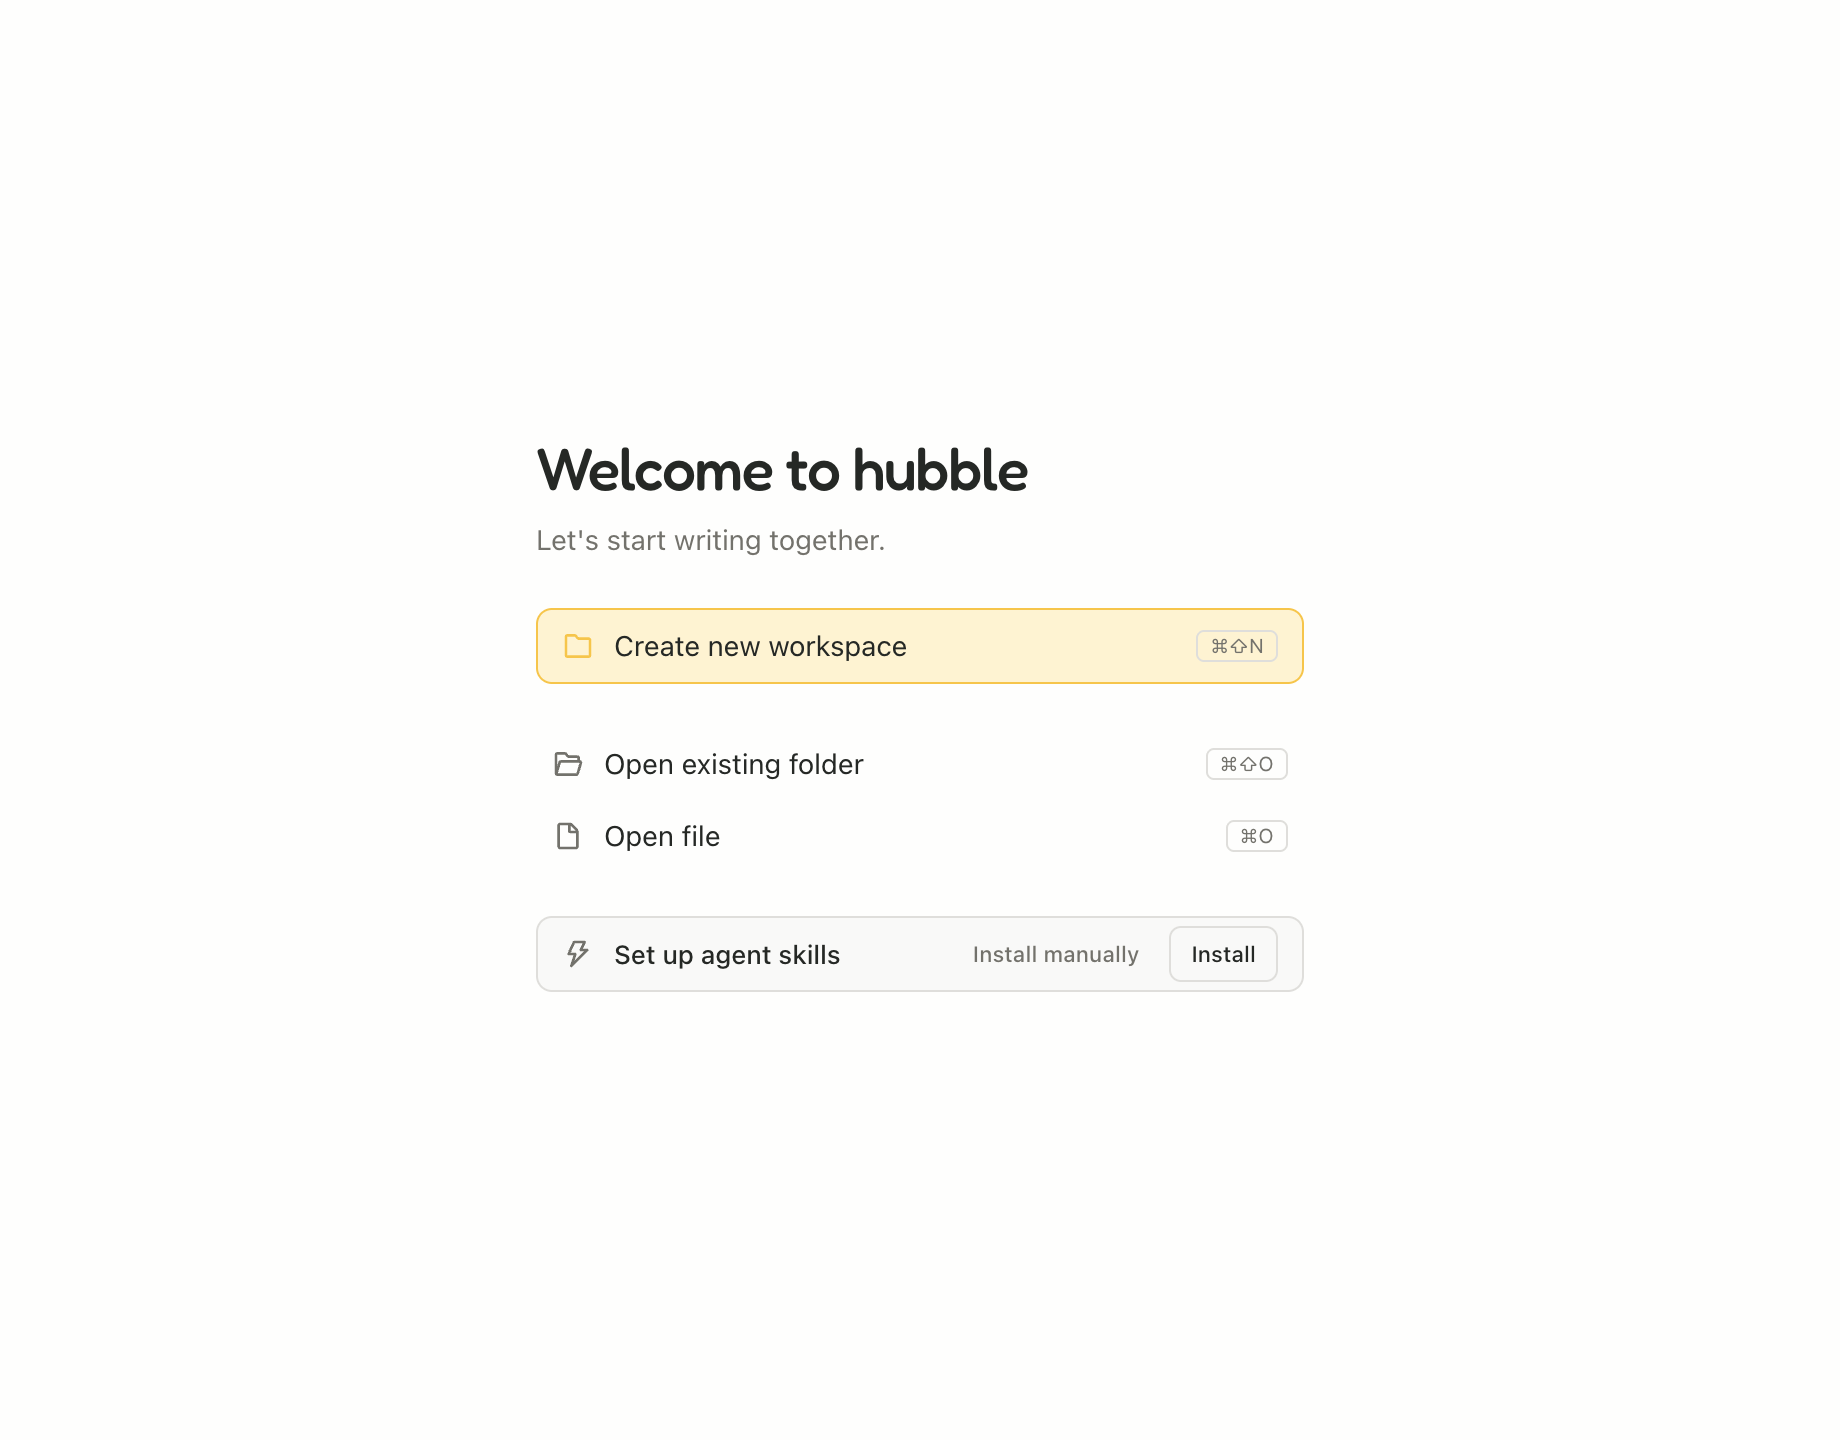
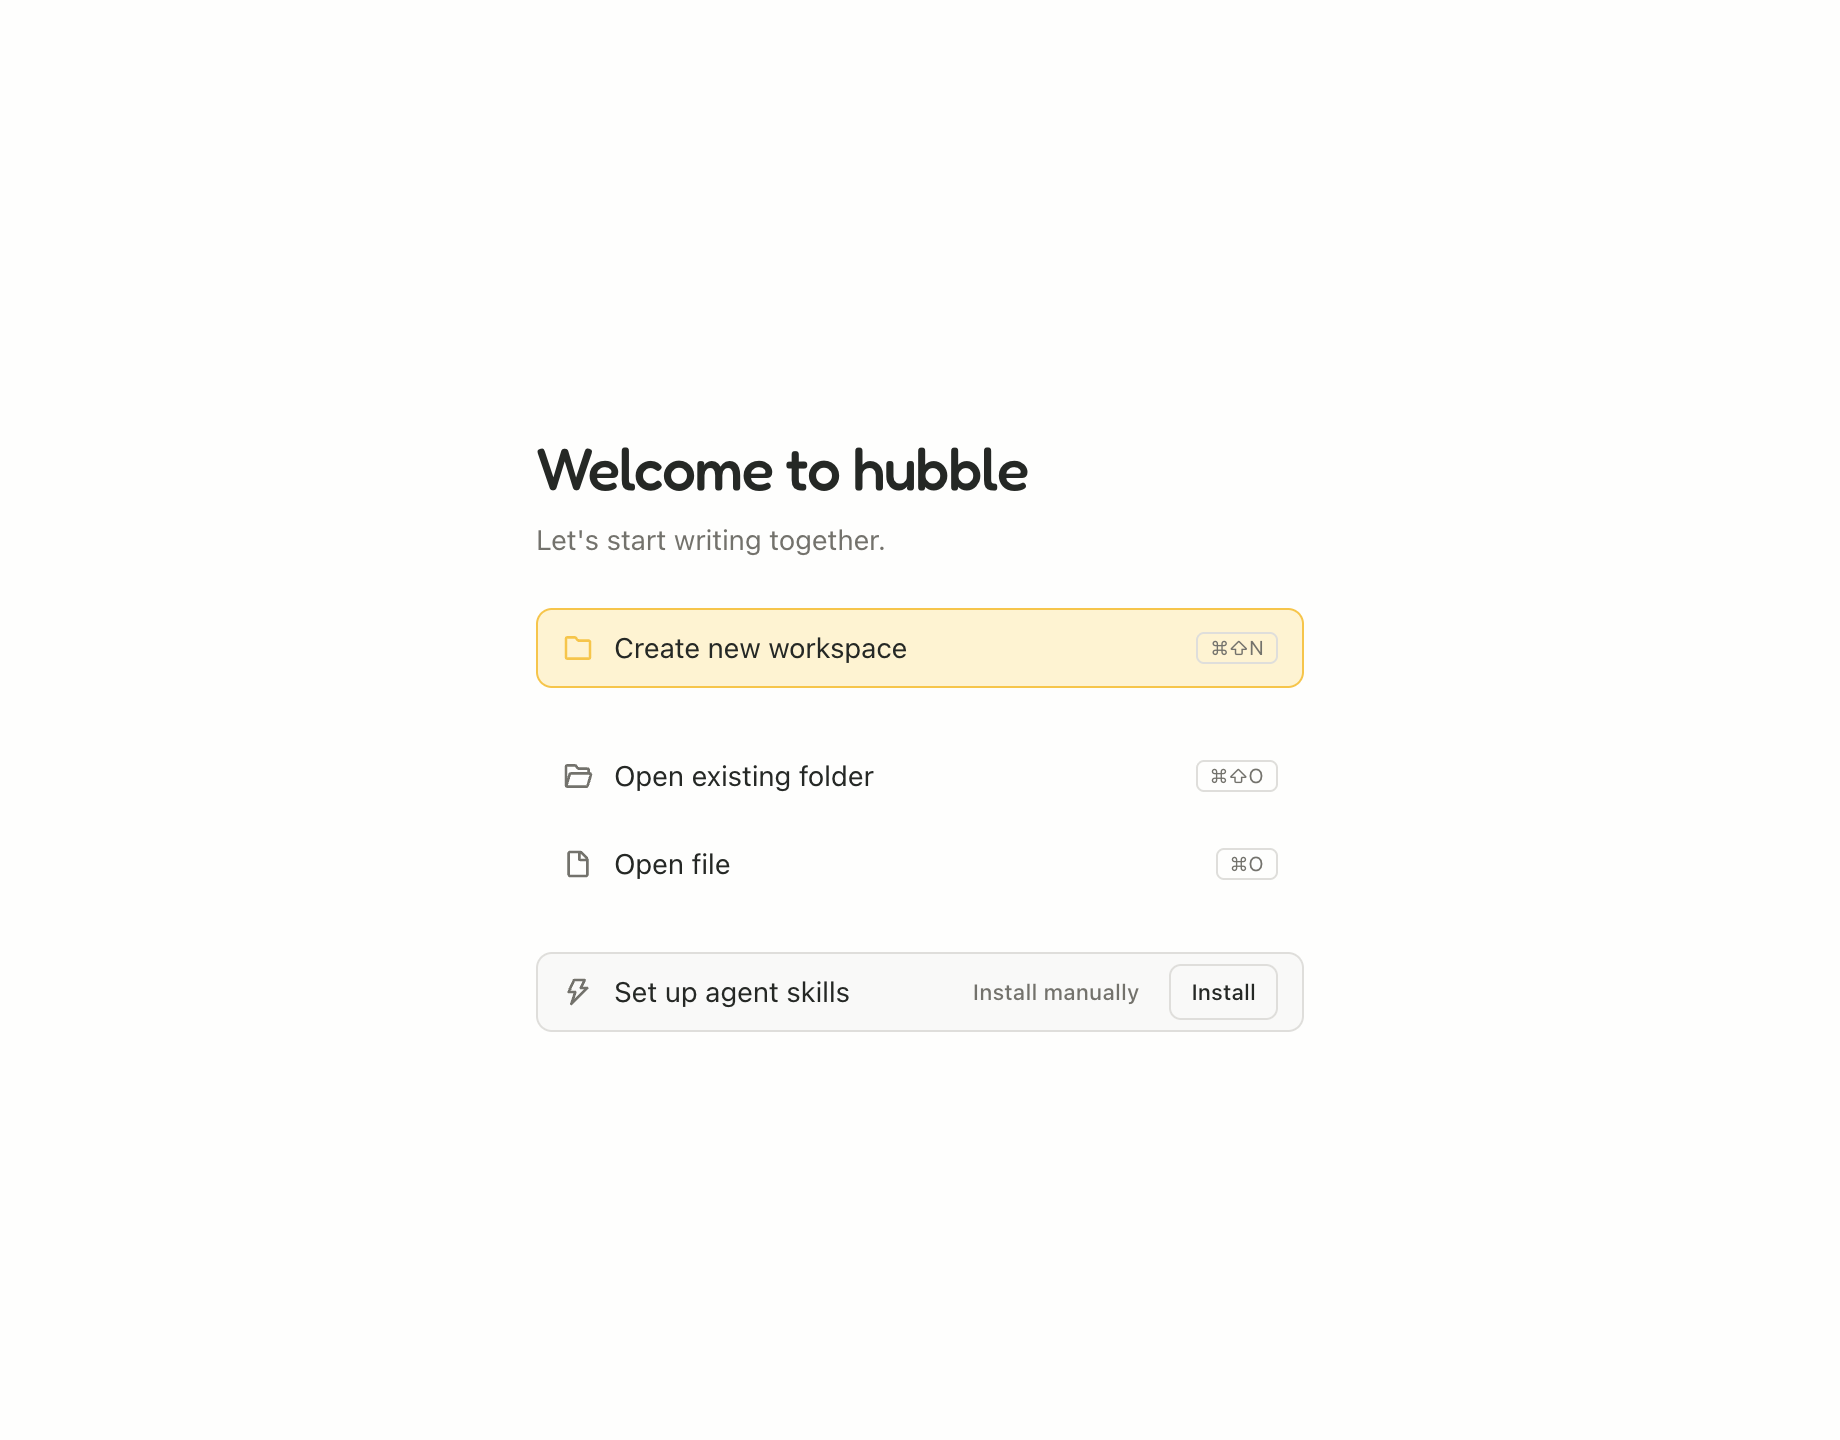
Align welcome rows and stabilize skills setup geometry

diff --git a/apps/desktop/src/components/WelcomeScreen.tsx b/apps/desktop/src/components/WelcomeScreen.tsx
@@ -36,7 +36,7 @@ export function WelcomeScreen({
 					type="button"
 					onClick={onCreateWorkspace}
 					style={{ animationDelay: "0.15s" }}
-					className="welcome-rise flex w-full items-center gap-2.5 rounded-md border border-brand-accent bg-accent px-3 py-2 text-start text-sm transition-colors hover:bg-brand-accent/10 focus-visible:outline-2 focus-visible:outline-offset-2 focus-visible:outline-brand-accent"
+					className="welcome-rise flex min-h-10 w-full items-center gap-2.5 rounded-md border border-brand-accent bg-accent px-3 py-2 text-start text-sm transition-colors hover:bg-brand-accent/10 focus-visible:outline-2 focus-visible:outline-offset-2 focus-visible:outline-brand-accent"
 				>
 					<MingcuteFolderLine className="size-4 text-brand-accent" />
 					Create new workspace
@@ -51,6 +51,7 @@ export function WelcomeScreen({
 					<div className="welcome-rise" style={{ animationDelay: "0.25s" }}>
 						<EmptyStateAction
 							icon={<MingcuteFolderOpenLine className="size-4" />}
+							className="min-h-10 border border-transparent px-3 py-2"
 							label="Open existing folder"
 							shortcut={folderShortcut}
 							onClick={onOpenFolder}
@@ -59,6 +60,7 @@ export function WelcomeScreen({
 					<div className="welcome-rise" style={{ animationDelay: "0.35s" }}>
 						<EmptyStateAction
 							icon={<MingcuteFileLine className="size-4" />}
+							className="min-h-10 border border-transparent px-3 py-2"
 							label="Open file"
 							shortcut={fileShortcut}
 							onClick={onOpenFile}
@@ -66,13 +68,15 @@ export function WelcomeScreen({
 					</div>
 				</section>
 				<div
-					className="welcome-rise flex items-center gap-2.5 rounded-md border border-border bg-muted/40 px-3 py-1"
+					className="welcome-rise flex min-h-10 items-center gap-2.5 rounded-md border border-border bg-muted/40 px-3 py-1"
 					style={{ animationDelay: "0.45s" }}
 				>
 					<MingcuteLightningLine className="size-4 shrink-0 text-muted-foreground" />
 					<div className="min-w-0 flex-1">
 						<SkillsSettings
-							title="Set up agent skills"
+							title={
+								<span className="text-sm font-normal">Set up agent skills</span>
+							}
 							description={null}
 							installVariant="outline"
 						/>

diff --git a/apps/desktop/src/components/EmptyStateAction.tsx b/apps/desktop/src/components/EmptyStateAction.tsx
@@ -1,4 +1,5 @@
 import type { ReactNode } from "react";
+import { cn } from "../lib/utils";
 
 export function EmptyStateAction({
 	icon,
@@ -6,6 +7,7 @@ export function EmptyStateAction({
 	detail,
 	trailing,
 	shortcut,
+	className,
 	onClick,
 }: {
 	icon: ReactNode;
@@ -13,6 +15,7 @@ export function EmptyStateAction({
 	detail?: string;
 	trailing?: string;
 	shortcut?: string | null;
+	className?: string;
 	onClick: () => void;
 }) {
 	return (
@@ -20,7 +23,10 @@ export function EmptyStateAction({
 			type="button"
 			data-new-tab-option
 			onClick={onClick}
-			className="flex w-full items-center gap-2.5 rounded-md px-2 py-1.5 text-start text-sm hover:bg-accent focus-visible:bg-accent focus-visible:outline-hidden"
+			className={cn(
+				"flex w-full items-center gap-2.5 rounded-md px-2 py-1.5 text-start text-sm hover:bg-accent focus-visible:bg-accent focus-visible:outline-hidden",
+				className,
+			)}
 		>
 			<span className="text-muted-foreground">{icon}</span>
 			<span className="truncate">{label}</span>

diff --git a/apps/desktop/src/components/SkillsSettings.tsx b/apps/desktop/src/components/SkillsSettings.tsx
@@ -12,7 +12,7 @@ export function SkillsSettings({
 	installVariant = "default",
 	description = "Teach your agents how to use Hubble's features: build HTML apps, edit diagrams, or leave and respond to comments.",
 }: {
-	title?: string;
+	title?: ReactNode;
 	installVariant?: "default" | "outline";
 	description?: ReactNode;
 }) {

diff --git a/apps/desktop/src/components/SettingsDialog.tsx b/apps/desktop/src/components/SettingsDialog.tsx
@@ -56,7 +56,7 @@ export function SettingsSection({
 	action,
 	children,
 }: {
-	title: string;
+	title: ReactNode;
 	description?: ReactNode;
 	action?: ReactNode;
 	children?: ReactNode;

diff --git a/docs/verification/welcome/README.md b/docs/verification/welcome/README.md
@@ -7,7 +7,7 @@ Electron screenshots from a fresh, isolated profile:
 
 Verified in the real Electron app with native dialog results stubbed at the Electron boundary: all three buttons and keyboard shortcuts reach the expected picker, and creating a workspace creates and opens its folder. The welcome reveal uses 100 ms staggered delays and disables motion when reduced motion is requested.
 
-The skills row shares the Settings component, including the installation hook, installed indicator, and manual-install modal; welcome changes the title, removes the description, and uses an outlined Install button in a lightly filled rounded row with a bolt icon, matching the primary action’s width and horizontal padding. Electron checks cover the available action, disabling repeat clicks while installation runs, already-installed detection after reload, the manual-install dialog, the Settings installed indicator, and error feedback with retry. Skill IPC handlers are stubbed for these checks.
+The skills row shares the Settings component, including the installation hook, installed indicator, and manual-install modal; welcome changes the title, removes the description, and uses an outlined Install button in a lightly filled rounded row with a bolt icon, matching the primary action’s width, 40 px row height, horizontal padding, and label typography. All welcome options share the same icon/text columns; the skills row keeps its height after installation. Electron checks cover the available action, disabling repeat clicks while installation runs, already-installed detection after reload, the manual-install dialog, the Settings installed indicator, and error feedback with retry. Skill IPC handlers are stubbed for these checks.
 
 The store regression cases cover a fresh profile, an older profile without a saved sidebar view, and saved Folders/Inbox choices. Only a fresh profile defaults to Inbox. Reverting the default change makes the fresh-profile test fail with Folders instead of Inbox.
 
